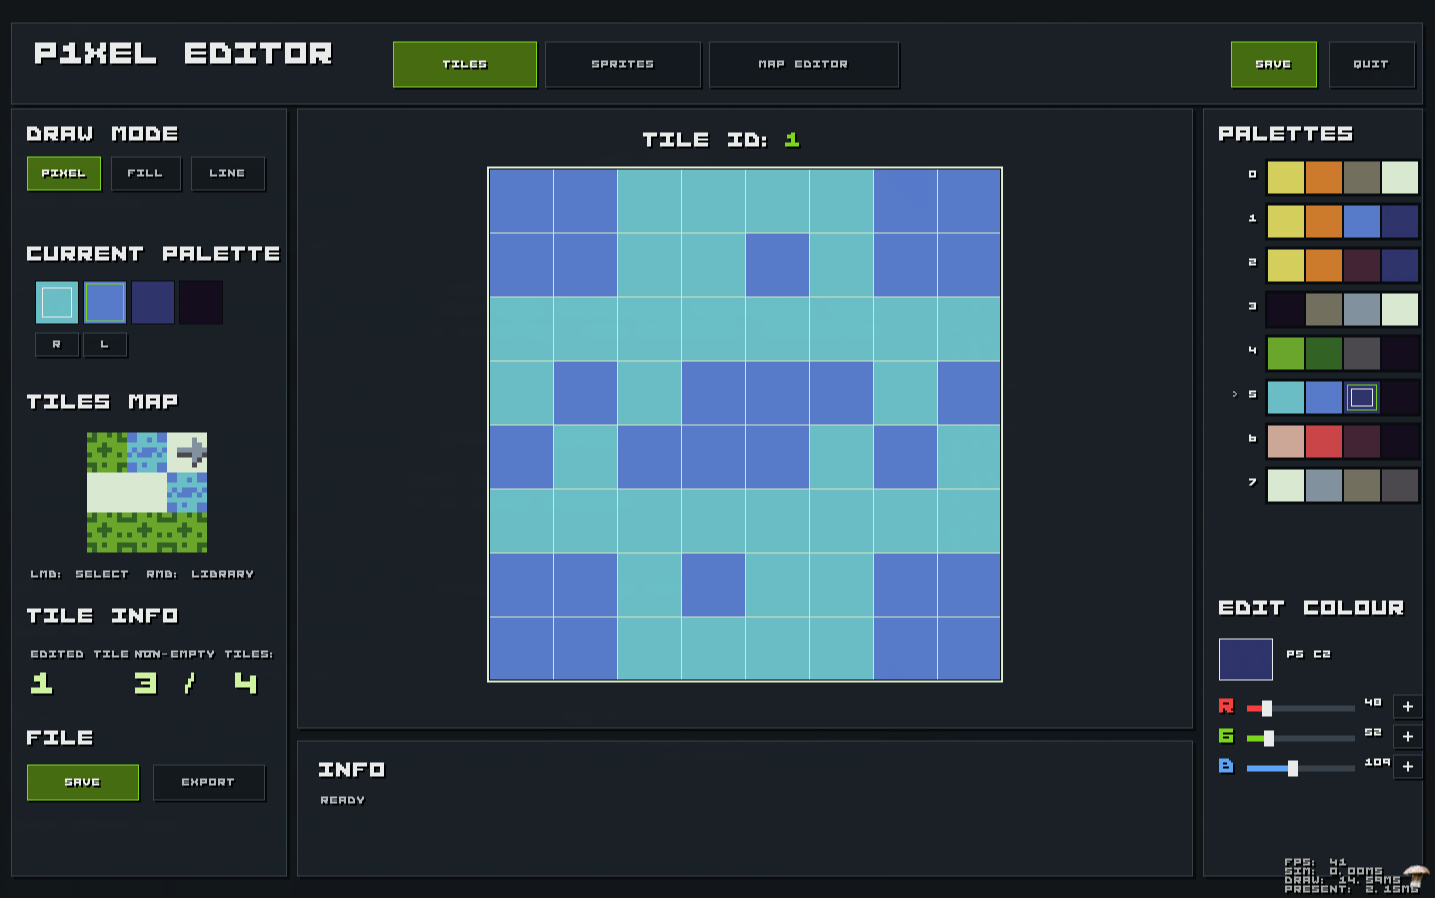
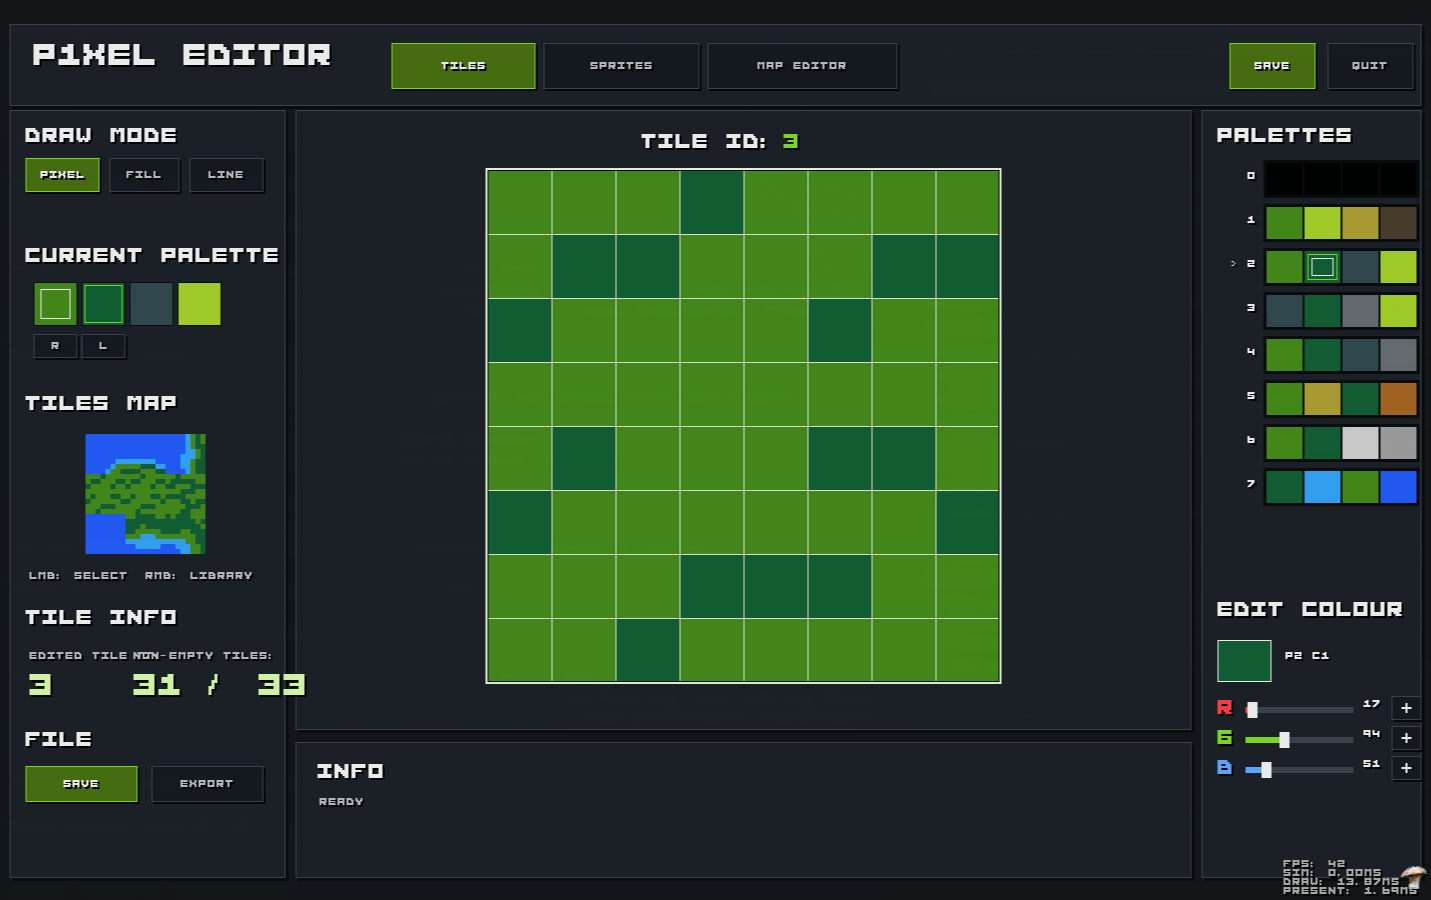
udp

diff --git a/README.md b/README.md
@@ -6,6 +6,8 @@ It is designed around a classic indexed-colour workflow: artwork is stored as ti
 
 ![P1Xel Editor - Tiles Editor ](docs/screenshot-tiles.png)
 
+![P1Xel Editor - Tiles Editor ](docs/screenshot-map.png)
+
 ## Features
 
 - 8×8 tile editor with pixel, fill, and line tools.